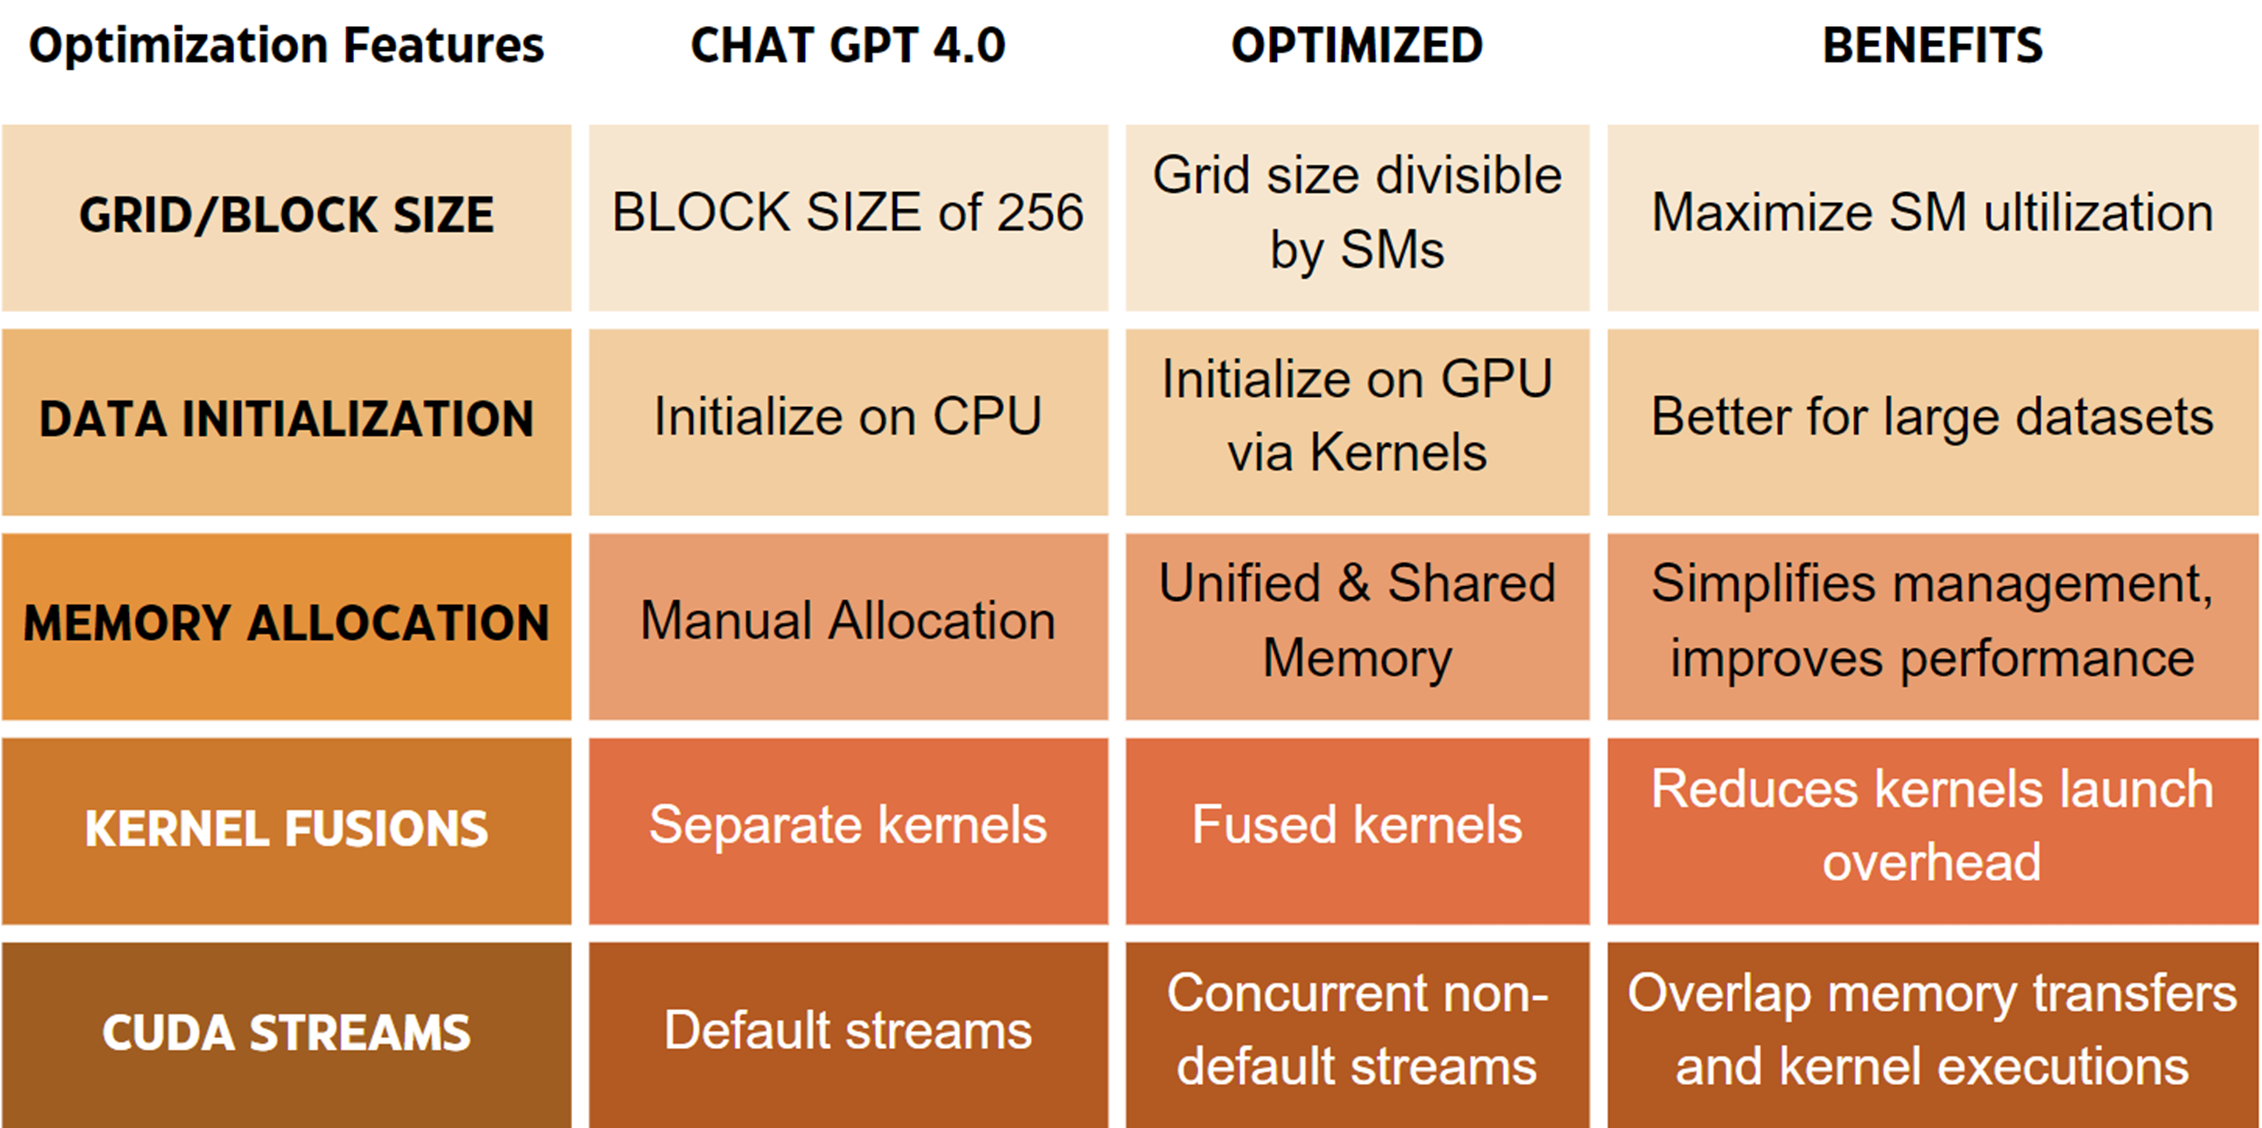
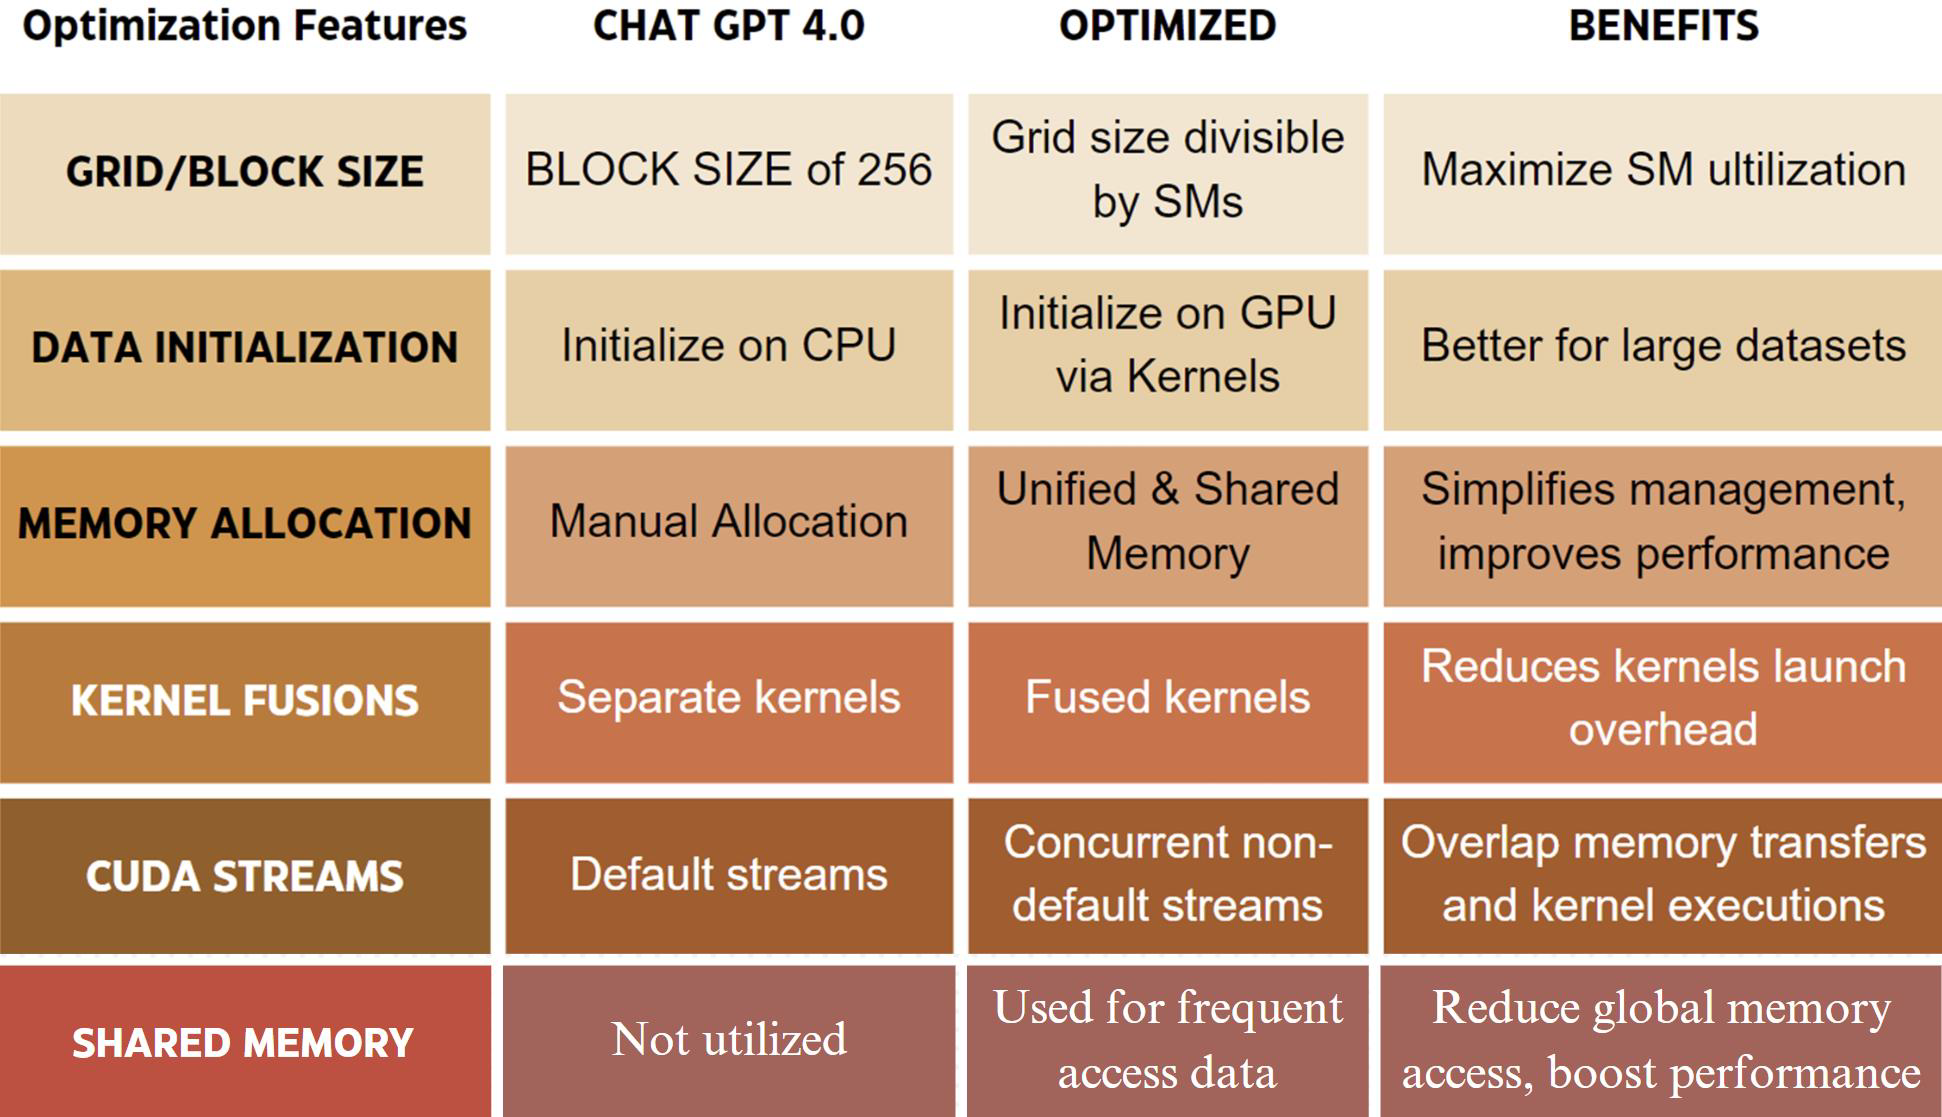
Add Shared Mem in Phase 2

diff --git a/inital-LLMs-ml/README.md b/inital-LLMs-ml/README.md
@@ -21,9 +21,11 @@ A series of optimizations were applied to the initial regression model generated
 
 The optimizations significantly improved the model's performance, reducing execution time and improving efficiency. The following graph illustrates the impact of these optimizations on execution time:
 
-![Execution Time](./images/execution_time.png)
+![Execution Time](./images/execution_time_cuda.png)
 
 ### Showcase of Optimization Techniques
+
+Below are some of the showcase for important techniques that mostly increased the execution time ... (revise this)
 
 - **CUDA Streams**: This optimization involved utilizing multiple CUDA streams to enable concurrent memory transfers and kernel execution. By overlapping data processing with non-blocking, segmented transfers, the model was able to process different segments of data simultaneously. 
 
@@ -38,6 +40,18 @@ The optimizations significantly improved the model's performance, reducing execu
   - **Results**: The fused kernels demonstrated a marked improvement in execution time, as fewer kernel launches translate to reduced overhead and better use of the GPU’s resources.
 
   ![Fused Kernels](./images/fused_kernel.png)
+
+- **Shared Memory**: Shared memory is significantly faster than global memory because it is located closer to the CUDA cores and is accessible within each block. By utilizing shared memory for storing intermediate values such as input X, true output y_true, and gradients, the overhead of repeatedly accessing global memory during training was reduced.
+
+  - **Implementation Details**:  Shared memory was initialized using the __shared__ keyword, allowing data to be loaded at the start of the kernel execution. This enabled threads within each block to reuse the data efficiently. Synchronization between threads was handled with __syncthreads() to ensure correct execution order.
+  - **Results**: The use of shared memory minimized global memory accesses, resulting in a significant speedup, despite the minor overhead introduced by thread synchronization. As shown in the graph, shared memory provided one of the largest performance improvements, especially for larger datasets where repeated global memory accesses would have introduced delays.
+
+![Shared Memory Diagram](./images/shared_global_diagram.png)
+
+This diagram shows how shared memory in CUDA works. Shared memory is faster than global memory and can be accessed by all threads within a block. Threads use it to share data efficiently, reducing the need to access slower global memory. Each thread has private registers, and shared memory allows quick data exchange between them. This speeds up performance, especially in tasks where multiple threads need to reuse data.
+
+
+
 
 
 ### Insights and Future Work
